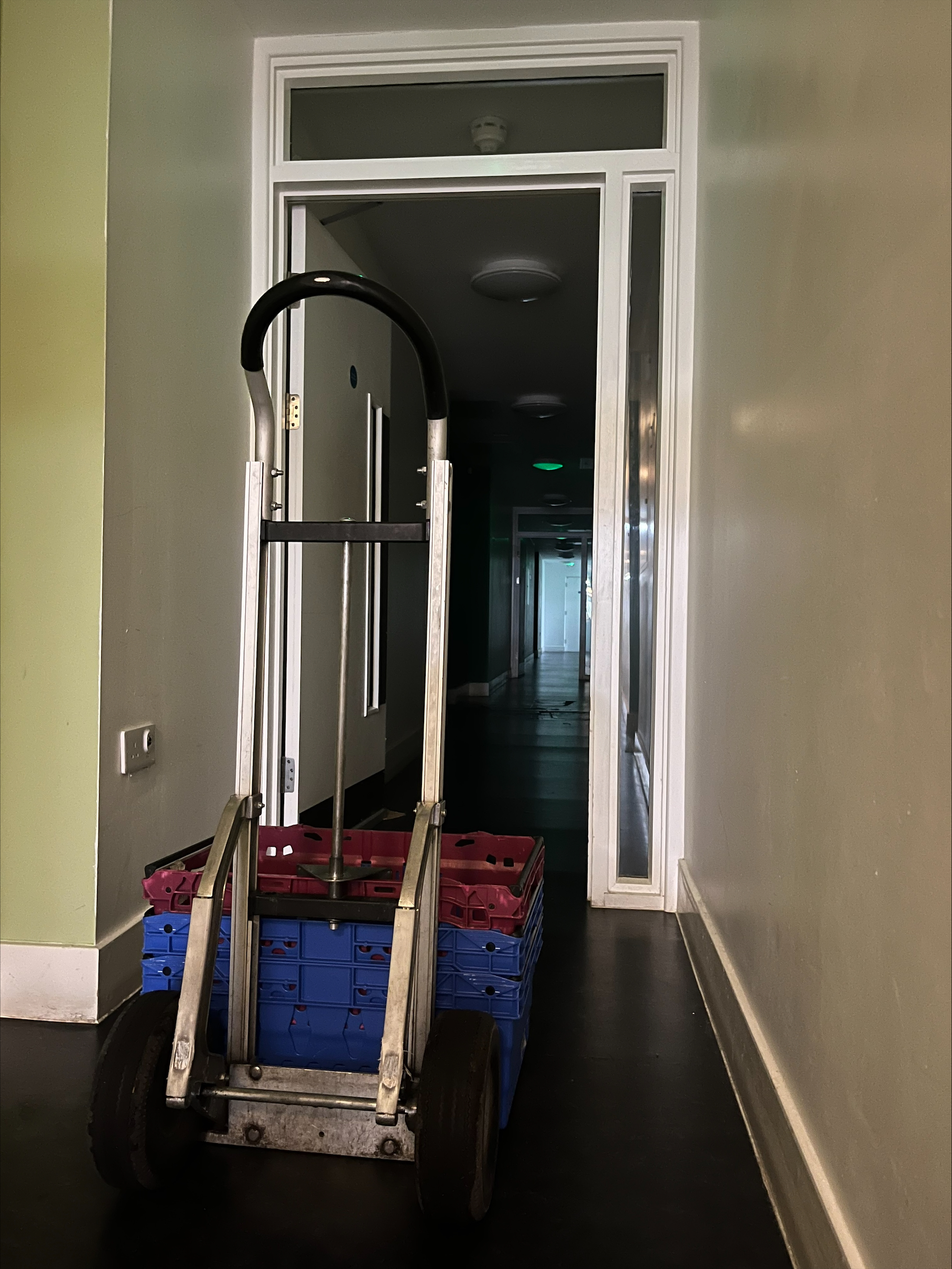
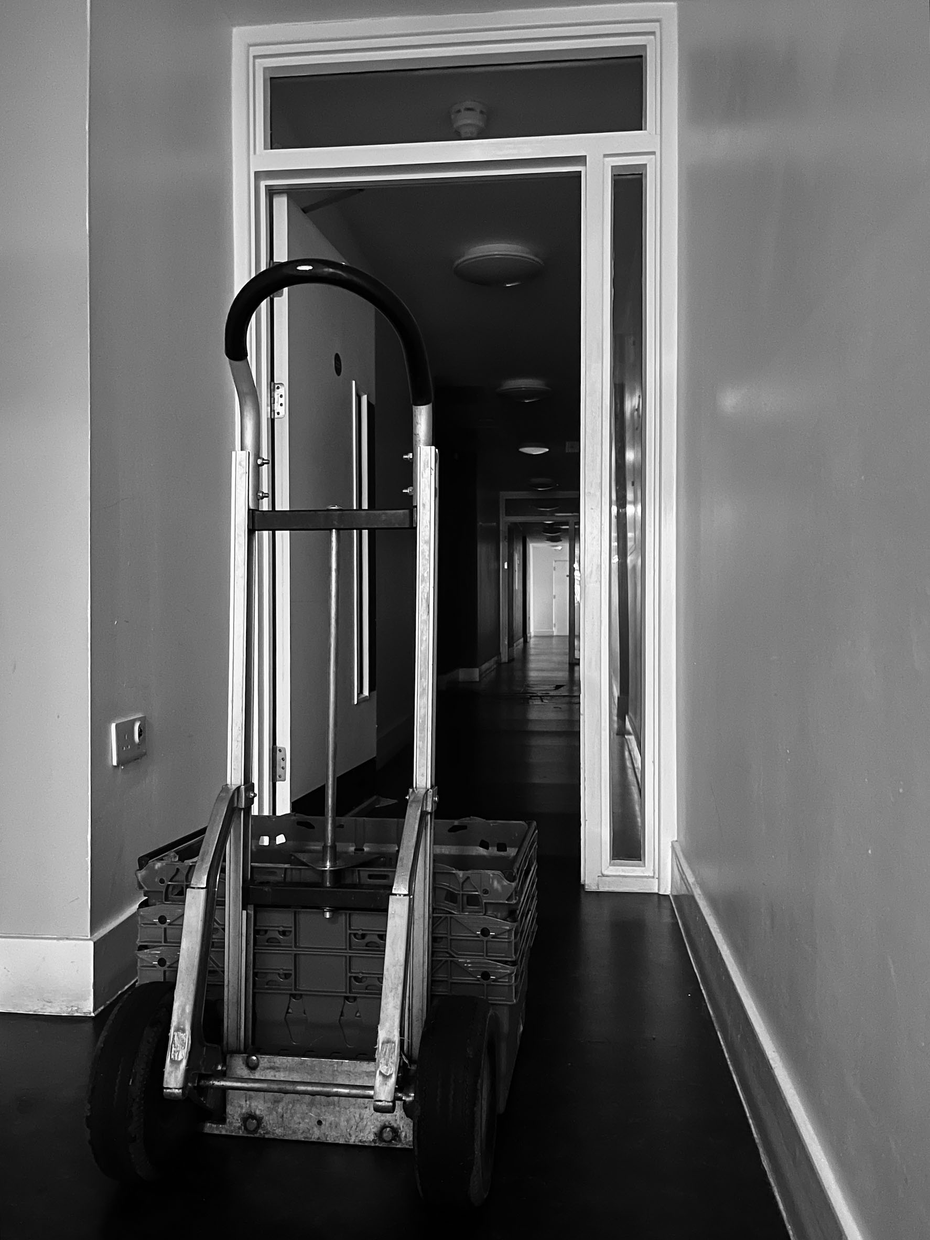
completed two pages of first journey

diff --git a/pages/easyroute1.html b/pages/easyroute1.html
@@ -1,0 +1,37 @@
+<!DOCTYPE html>
+<html lang="en">
+<head>
+    <link rel="stylesheet" href="../styles.css">
+    <meta charset="UTF-8">
+    <meta name="viewport" content="width=device-width, initial-scale=1.0">
+    <title>Easy Route</title>
+</head>
+<body>
+
+
+<div class="container2">
+
+<div style="position:relative" class="firstimage">
+    <img src="../images/img16.jpeg" style="width:70%;">
+    <div style="position:absolute; left: 150px; top: 600px;"><a class="next2" href=
+        "../index.html">Next</a></div>
+        <div style="position:absolute; left: 290px; top: 250px;"><a class="next3" href=
+            "../pages/easyroute2.html">Next</a></div>
+</div>
+
+<div class="text1">
+<h3>Congratulations... you made it to the next step</h3>
+<p>You will have to find another 'Next' button if you wish to continue on this
+    journey. Giving up won't get you anywhere, however hard it maybe. We might include
+    some tricks on this one.
+</p>
+<p>Sometimes the most obvious answer is the right one, and sometimes it is the wrong
+    one, you won't know until you try..
+</p>
+<p>Trying the same thing as last time works at times, but it depends on the context.</p>
+</div>
+    
+</div>
+
+</body>
+</html>

diff --git a/styles.css b/styles.css
@@ -29,6 +29,25 @@
 }
 
 .next1 {
-    color: black;
+    color: rgb(0, 7, 101);
 }
+
+    .container2 {
+        display: flex;
+        flex-direction:row-reverse;
+        justify-content: center;
+        align-content: center;
+        align-items: center;
+        height: 50vh;
+        margin-left: 150px;
+        margin-top: 15%;
+    }
+
+    .next2 {
+        color: white;
+    }
+
+    .next3 {
+        color: black;
+    }
 

diff --git a/pages/easyroute.html b/pages/easyroute.html
@@ -12,8 +12,8 @@
 <div class="container1">
 
 <div style="position:relative" class="firstimage">
-    <img src="../images/img3.jpeg" style="width:70%;">
-    <div style="position:absolute; left: 0px; top: 0px;"><a class="next1" href=
+    <img src="../images/img23.jpeg" style="width:70%;">
+    <div style="position:absolute; left: 150px; top: 600px;"><a class="next1" href=
         "../pages/easyroute1.html">Next</a></div>
 </div>
 
